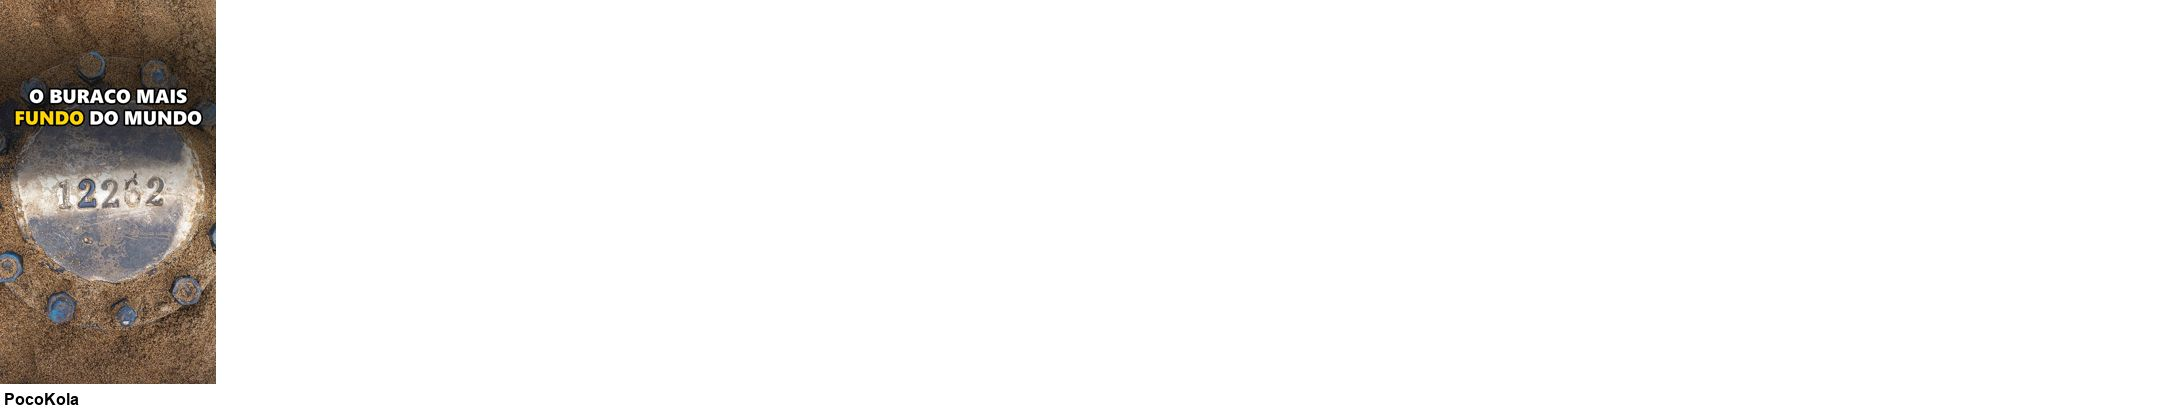
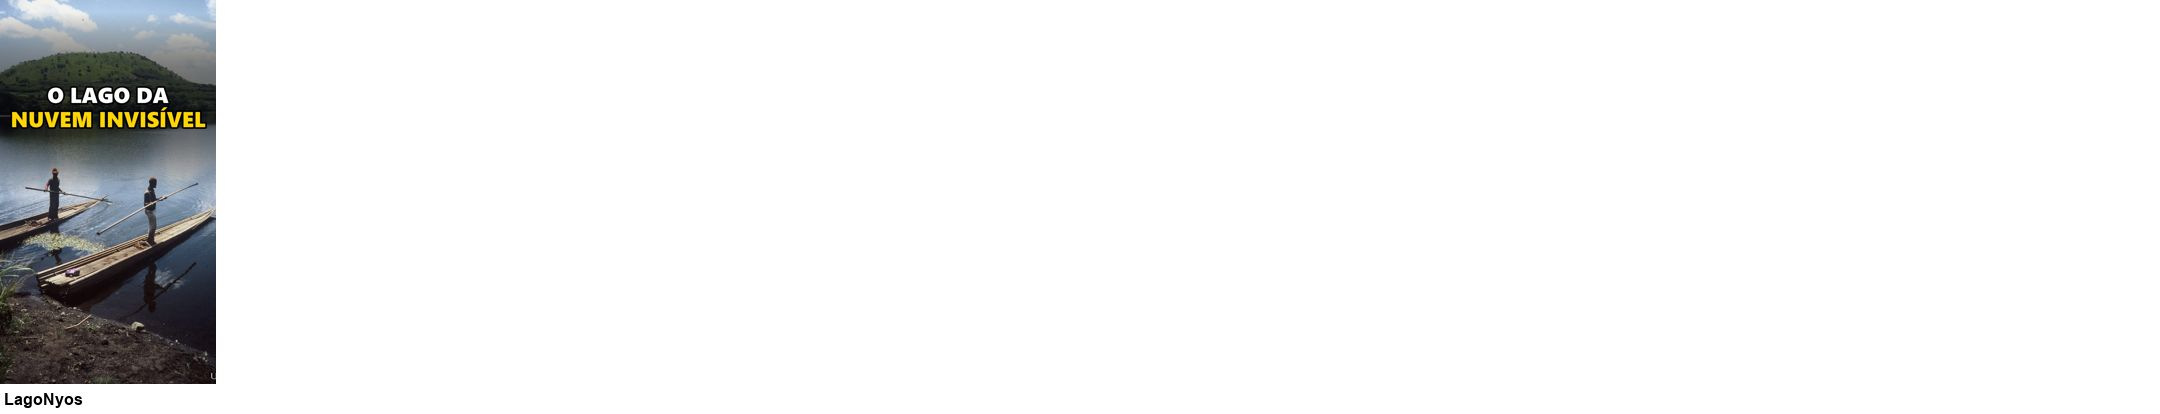
Atualizacao dos shorts

Changed region(s): [[0.0, 0.0, 0.1241, 0.9275], [0.0, 0.9565, 0.062, 0.9855]]

diff --git a/fisica-sem-misterio/video/capas/capas_shorts.py b/fisica-sem-misterio/video/capas/capas_shorts.py
@@ -60,7 +60,7 @@ TEXTO = {
     "ChoqueCarro": "Por que o CARRO/te dá *CHOQUE*?", "DesertoNoite": "Quente de dia,/*GELADO* à noite",
 }
 TEXTO["ChuteRoberto"] = "O chute/*IMPOSSÍVEL*"; TEXTO["ElevadorCabo"] = "Caiu 75 ANDARES/e *SOBREVIVEU*"
-TEXTO["BaleiaExplode"] = "Por que a baleia/*EXPLODE*?"; TEXTO["LagoNyos"] = "Um LAGO que/*MATOU 1.746*"
+TEXTO["BaleiaExplode"] = "Por que a baleia/*EXPLODE*?"; TEXTO["LagoNyos"] = "O lago da/*NUVEM INVISÍVEL*"
 TEXTO["PocoKola"] = "O buraco mais/*FUNDO* do mundo"
 TEXTO_Y = {"ChuteRoberto": 1480, "ElevadorCabo": 1500, "ChoqueCarro": 1420, "FundoMar": 1250}  # altura do texto quando o assunto fica no alto da imagem
 CAPA_IMG = {  # escolhas manuais depois de conferir a folha

diff --git a/fisica-sem-misterio/CLAUDE.md b/fisica-sem-misterio/CLAUDE.md
@@ -457,3 +457,10 @@ Sempre mostrar os temas e esperar o OK antes de produzir; "publique" = YouTube +
 
 **13/11 (tarde) — LEVA 28 = SÓ 1 SHORT (Jansey: "somente a opção 2"; "pode renderizar"): `PocoKola` PRONTO, NÃO PUBLICADO.** "O BURACO mais fundo do mundo: 12 km 🕳 (e o \"som do inferno\")", voz Antonio (56,9 s), música Level. Roteiro na LEVA 28 de criar_roteiros.py (fatos: Wikipedia EN Kola Superdeep Borehole + Well to Hell). Fotos reais `Kf_*` (`fontes_leva28/fotos.json`: tampa soldada "12262" de Alexander Novikov CC BY-SA 4.0, selo URSS 1987 domínio público, corte geológico CC0, aérea 2020 CC BY-SA 4.0) + Pexels 4054710 (perfuração), 34912747 (micro-organismos), 37003841 (túnel). Render `out/Fisica89_PocoKola.mp4` (137 MB, conferido), cópia ≤10 MB + capa em `Desktop\trabalhos jansey\_upload_shorts\`; capa "O buraco mais/*FUNDO* do mundo" (capas_shorts.py); descrição e legenda em `out/descricao_PocoKola.txt` e `out/legenda_redes_PocoKola.txt`. Temas oferecidos e NÃO escolhidos: Ponte Rio-Niterói, Granizo gigante, Encontro das Águas, submarino nuclear, aurora no Brasil. Pegadinhas: o previa.py deixa processos node/chrome-headless vivos se for interrompido (matar antes do render); Wikimedia deu 429 com muitas chamadas seguidas (consultar em lote e pausar).
 - **13/11 ~16h50 — SHORT PocoKola PROGRAMADO NOS 3 (Jansey: "Programar amanhã 12h"):** YT 14/11 12:00 https://youtube.com/shorts/HqwgkfJC3rU (mensagem "Vídeo programado ... 14 de novembro de 2026 às 12:00" conferida; capa própria; "Uso de IA = Sim" pela voz sintética; não é para crianças; verificação de direitos sem problema). Reel FB+IG 14/11 13:00 Brasília (Programados conferidos: 2 linhas, 1 por rede, com legenda; capa própria por Criar → Miniatura → Carregar imagem; "Share to Story do Facebook" ficou ligado, padrão). Pegadinhas: no diálogo de envio do YouTube a tecla Esc FECHA o diálogo (o vídeo fica como rascunho com título/descrição salvos; reabrir em Shorts → "Editar rascunho"); no Business Suite a capa própria fica na etapa Criar, seção "Miniatura" (abaixo da legenda). Programados agora: só o PocoKola.
+- **13/11 — GitHub enviado (Jansey: "Pode enviar"):** commit `c4393f9` no shorts-para-redes-sociais (ba25b1b -> c4393f9; local = remoto), 19 arquivos (roteiro, narração, fotos Kf_*, capa, Root.tsx, CLAUDE.md).
+
+**Verificação 16/11 (~10h20 Manaus):** YT **318 inscritos**; 28 dias: 29,1 mil views; 683 em 48 h. **Short PocoKola (14/11): YT 289 em 2 dias, sem aviso de direitos; Reel FB 3.945 (3.438 visualizadores), IG 1.397 (melhor Reel do IG até agora).** Longo Apagão Mundial: 19 views, 114 impressões, CTR 2,6%, 89,5% via Pesquisa do YouTube (o boato é amanhã, 17/11). Outros: Baleia 1.337, Lago 107, Chernobyl 6, Veneza 31. **Reel do Lago Nyos no IG continua com 0 visualizações (FB 8.351)** — conferir no app do Instagram se o Reel aparece/foi restrito. Programados no Business Suite: VAZIO; nada programado no YT. Comentários sem resposta: os mesmos 10 de 13/11 (nenhum novo). Lixeira pela regra de 1 semana (1.241 MB): Veneza (longo, cópia de upload e story), Chute e Elevador (out + upload). Ficam: Chernobyl (faz 7 dias hoje às ~10h50), Baleia, Lago, Kola, Apagão; Fisica77_JanelaRedonda, Fisica78_GatoEmPe (out e upload, versão sem IA não publicada) e Teste_* até perguntar.
+- **16/11 — Reel do Lago no IG com 0 views (Jansey abriu no app: o Reel aparece, mas com 0):** detalhes no Business Suite: 0 visualizações, alcance "--", MAS 1 curtida e nenhum aviso de restrição na tela (o Business Suite não mostra se o IG barrou a recomendação). Os outros Reels do IG, inclusive o Kola 2 dias depois (1.397), estão normais, então não é a conta inteira. Suspeita: o IG não recomendou esse Reel (tema de mortes/sufocamento pode cair no filtro de "conteúdo sensível") ou falha na contagem. Pedido ao Jansey: no app, Perfil → menu → Status da conta → "O que pode ser recomendado"; se o Reel estiver lá, pedir revisão. Não republicar (regra de não duplicar).
+  - Resposta do Jansey (16/11): no Status da conta do IG "tem sobre monetização somente" — nada sobre recomendação, então o Reel do Lago NÃO está barrado; tratar como falha de distribuição/contagem do Instagram. Não republicar; seguir normal.
+- **16/11 (~11h) — REPOST DO LAGO NO IG PELA METADE (limite de uso):** o Jansey APAGOU o Reel do Lago no Instagram e autorizou repostar só no IG com título/capa menos chocantes ("pra não bloquear"). FEITO: capa nova "O lago da/*NUVEM INVISÍVEL*" (TEXTO["LagoNyos"] em capas_shorts.py; cópia em `Desktop\trabalhos jansey\_upload_shorts\capa_LagoNyos_v2.jpg`; vídeo `_upload_shorts\Fisica88_LagoNyos.mp4`). FALTA: Business Suite reels_composer → Postar em: DESMARCAR "Física Sem Mistério" (Facebook, que já tem o Reel com 8.351) e deixar só fisicasemmisteriobr → colar legenda nova (título "O LAGO da NUVEM INVISÍVEL 😶 A física explica" + texto do lago SEM a contagem de mortes, pergunta, Siga @fisicasemmisteriobr, hashtags #fisica #curiosidades #lagonyos #gascarbonico #ciencia) → Adicionar vídeo → miniatura Carregar imagem → Avançar x2 → Compartilhar agora → conferir 1 linha nova só no IG. Nada foi postado ainda.
+- **16/11 ~13h20 Manaus (14:21 Brasília) — REEL DO LAGO REPOSTADO SÓ NO INSTAGRAM (concluído):** o Jansey apagou o antigo (0 views) e autorizou ("pode repostar. mude o tema tbm ... pra não bloquear"). Novo Reel "O LAGO da NUVEM INVISÍVEL 😶 A física explica", capa `capa_LagoNyos_v2.jpg` ("O lago da/*NUVEM INVISÍVEL*"), legenda sem a contagem de mortes; Facebook DESMARCADO em "Postar em" (o Reel do FB antigo continua, 8.351). Conferido no Business Suite: 1 linha só, IG, Público. Pegadinhas: com só o IG marcado a etapa Editar é pulada; a lista de Publicados vem filtrada "até ontem" (achar o post de hoje pesquisando a legenda); depois de reabrir o Chrome a 1ª aba ficou congelada (screenshot com timeout) — abrir aba nova resolveu. Conferir as visualizações na próxima verificação.
